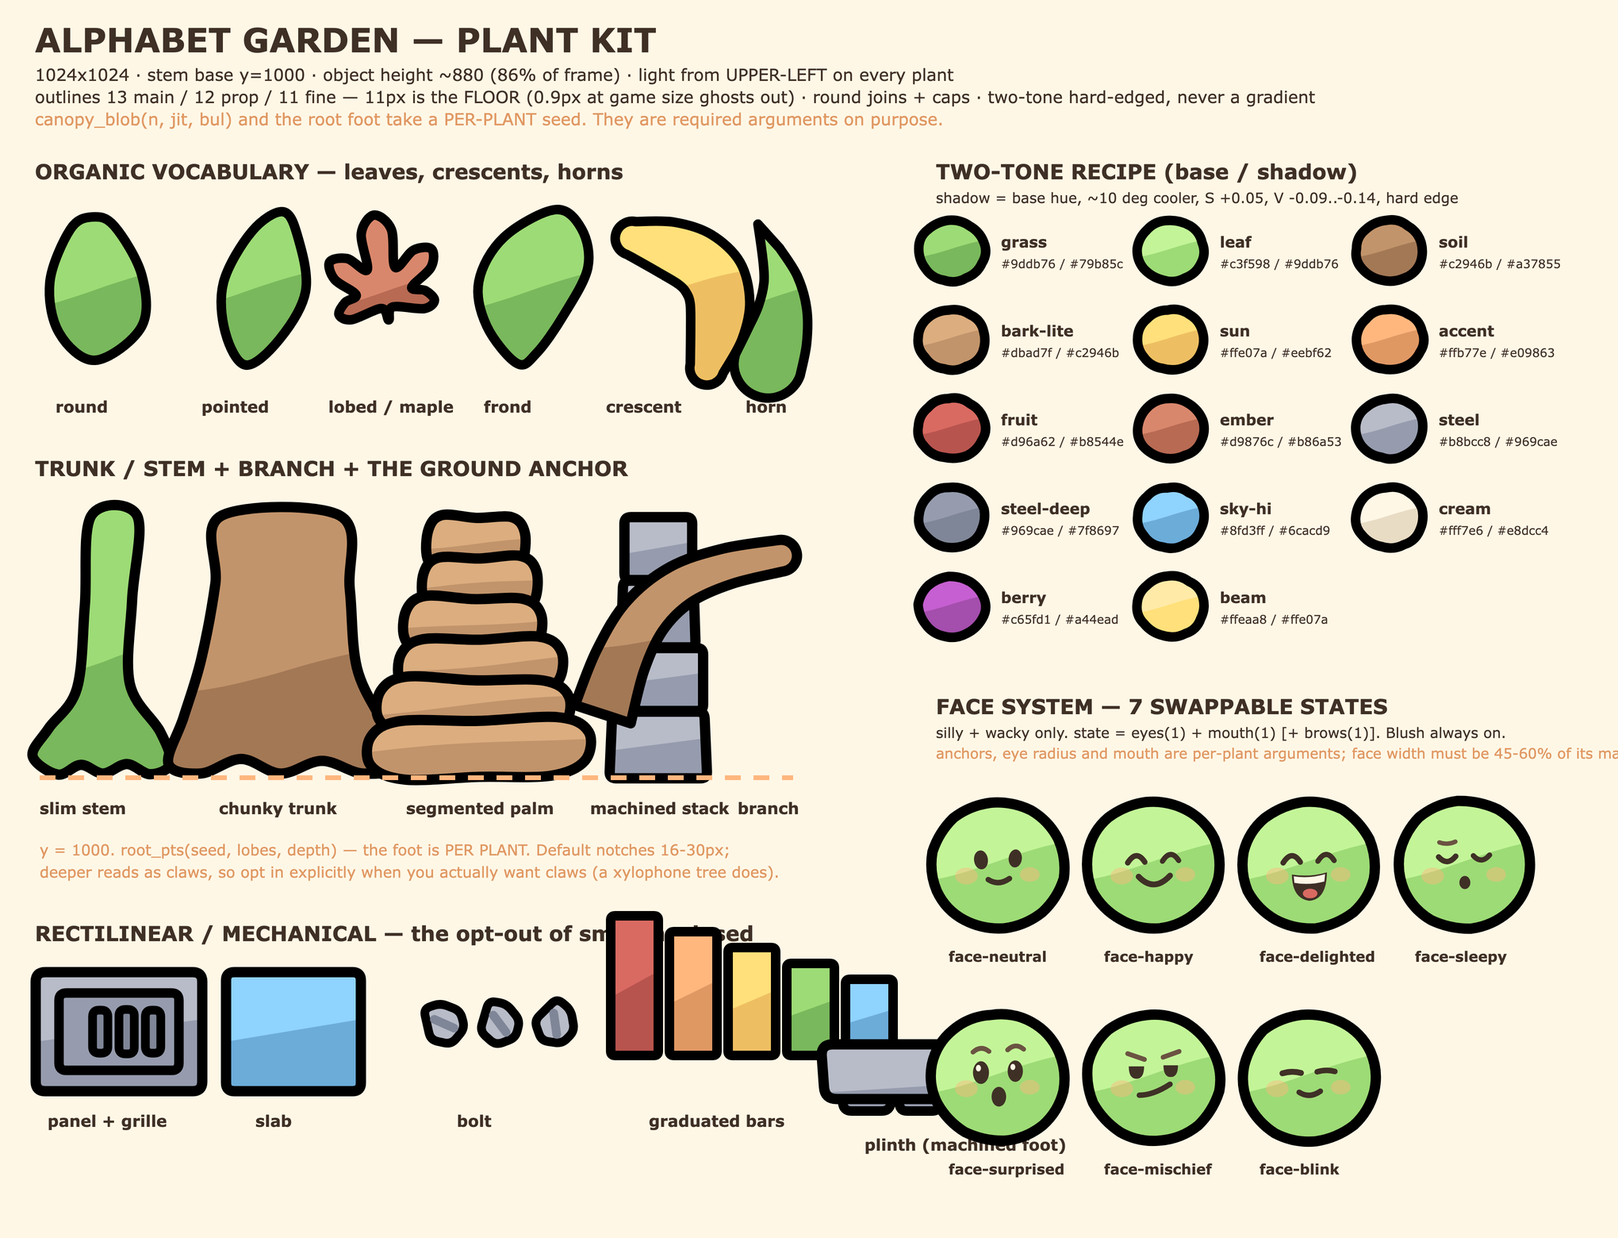
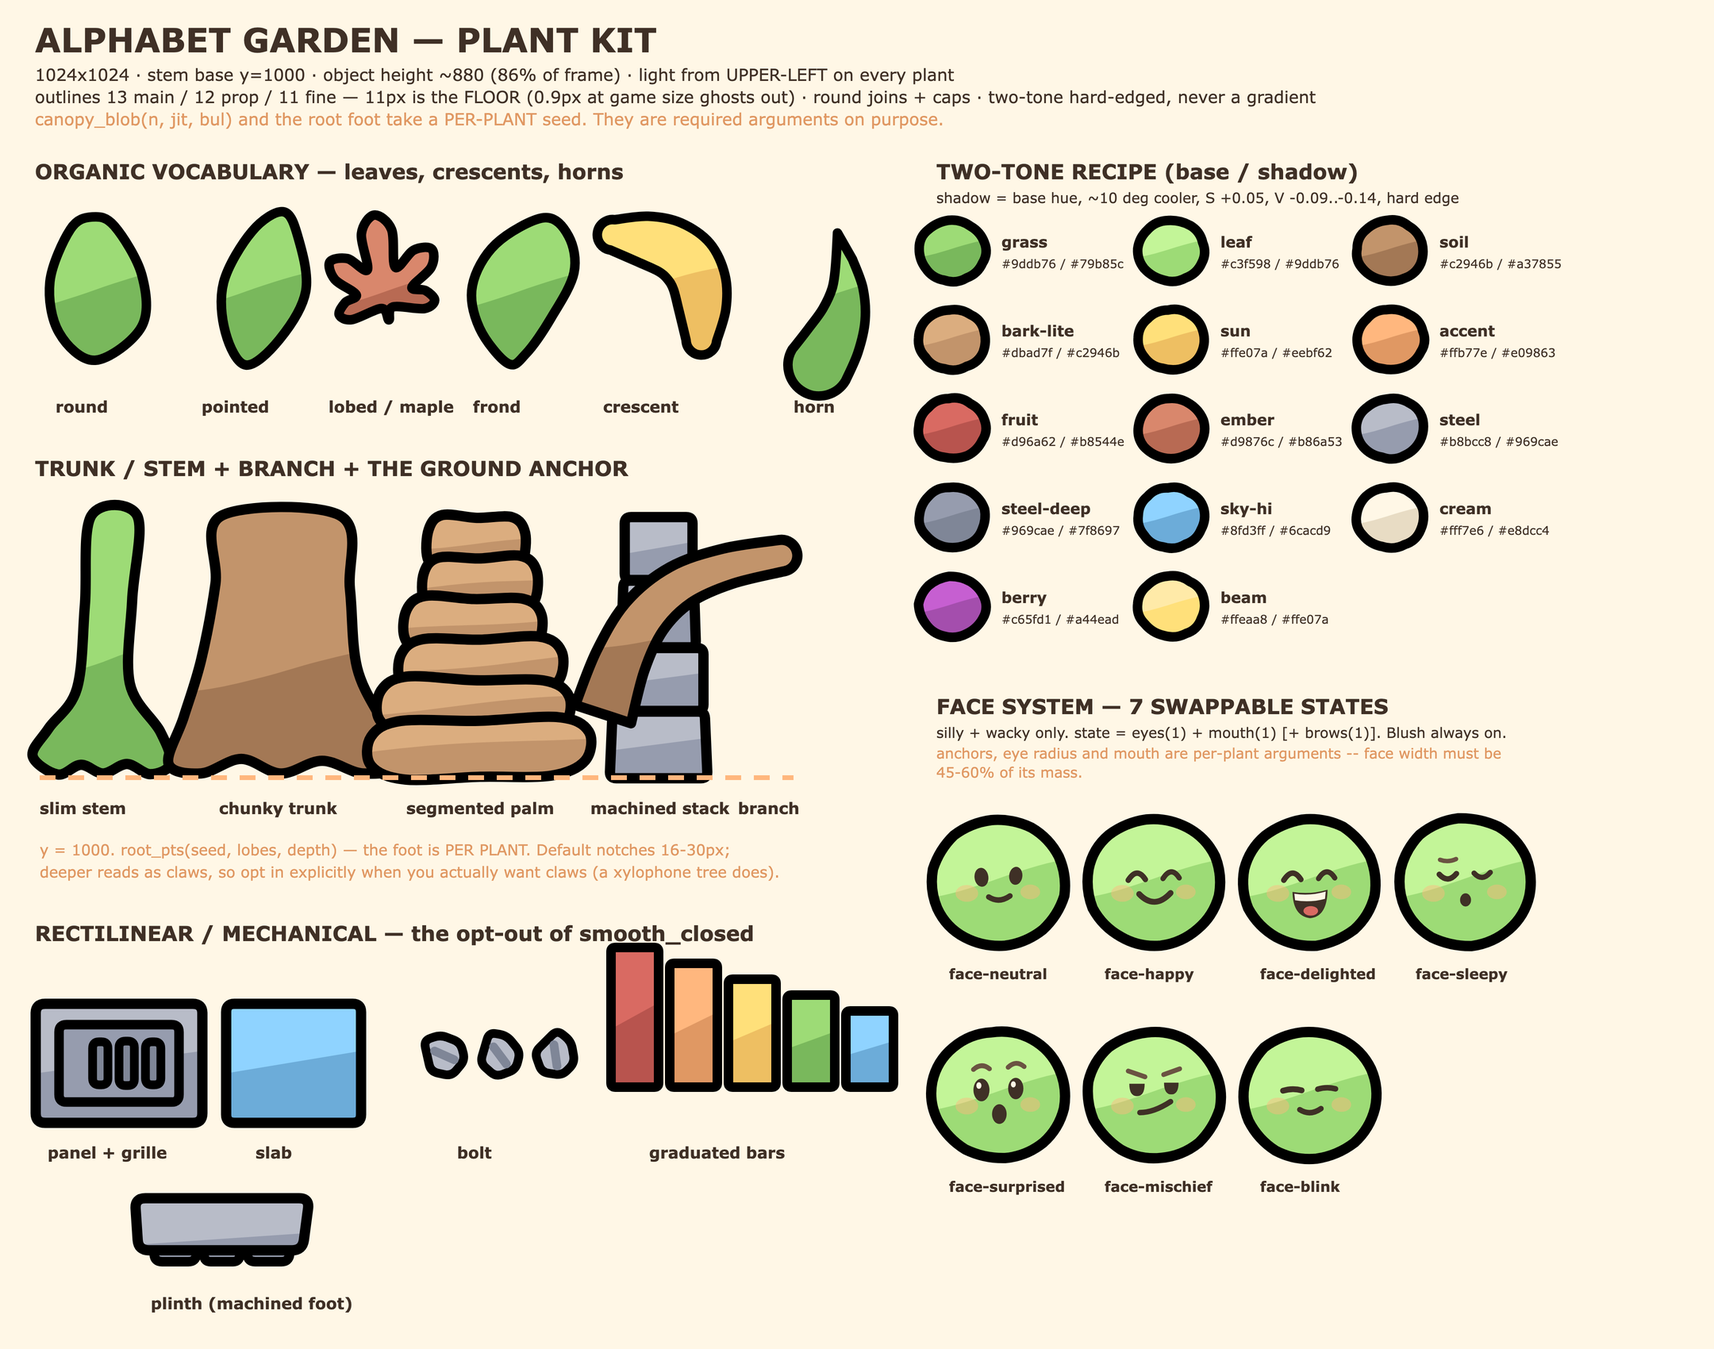
Fix the primer ten agents will read, and make drift impossible
The gate failed on documentation, not art: KIT.md still published the
discredited OL_FINE=7 ladder and documented none of the branch or
rectilinear primitives, so fanning out would have reproduced the already
fixed failures thirteen times over.

Worst of all it was silently wrong -- the docs gave trunk_chunky(..., lean)
while the code's sixth positional was root_seed, so two plants both written
"lean=0" emitted byte-identical feet. root_seed and mass_w are now
keyword-only, which turns that into an immediate TypeError.

Also closes two verifier holes found by adversarial testing: running the
verifier on a single id reported "G1 diversity PASS" after zero comparisons,
and the enrolled-plant list was hardcoded to nine names, so plants 10-78
would never have been checked at all.

Separates bark from ground soil. They had drifted into one family, but the
dirt plot was deliberately pushed hotter to carry the frame's focal weight;
if trunks matched it, every plant would compete with the plot for the eye.
_check_palette.py now reads _kit.py live and fails on any drift: 31/31
tokens match, and no plant art changed.

diff --git a/art/flat/plants/_build_plants.py b/art/flat/plants/_build_plants.py
@@ -153,7 +153,7 @@ def sunflower():
                   'fill="%s" transform="rotate(%d %.1f %.1f)"/>'
                   % (sx, sy, sr, sr * .82, INK_SOFT, (i * 37) % 60 - 30,
                      sx, sy))
-    d.form(disc, SOIL, sweep(HX, HY, 136, 128, lo=.28, hi=-.46), SOIL_DEEP,
+    d.form(disc, BARK, sweep(HX, HY, 136, 128, lo=.28, hi=-.46), BARK_DEEP,
            inner=seeds)
     return d.svg()
 
@@ -167,8 +167,8 @@ def apple_tree():
     d = Doc()
     d.form(trunk_chunky(508, 380, BASE_Y, 178, 334, root_seed=2.6, lean=8,
                         root_lobes=3, root_depth=(18, 30)),
-           SOIL, sweep(524, 760, 168, 250, lo=.18, hi=-.14, wob=.06),
-           SOIL_DEEP,
+           BARK, sweep(524, 760, 168, 250, lo=.18, hi=-.14, wob=.06),
+           BARK_DEEP,
            inner=('<path d="M424,560 C440,660 430,760 448,900" fill="none" '
                   'stroke="%s" stroke-width="%d" %s/>'
                   '<path d="M604,600 C592,700 606,798 596,916" fill="none" '
@@ -215,7 +215,7 @@ def apple_tree():
               'fill="none" stroke="%s" stroke-width="%d" %s/>'
               % (ax + 2, ay - r * .62, ax + 6, ay - r * 1.02,
                  ax + 16, ay - r * 1.16, ax + 26, ay - r * 1.30,
-                 SOIL_DEEP, OL_PROP, RJ))
+                 BARK_DEEP, OL_PROP, RJ))
         d.form(p, FRUIT, sweep(ax, ay, r, r, lo=.30, hi=-.46), FRUIT_DEEP,
                ol=OL_PROP, evenodd=eo,
                inner='<path d="%s" fill="%s" opacity="0.85"/>'
@@ -246,16 +246,16 @@ def maple_tree():
              (562, 792, 872, 588, 78, 40, -0.22)]
     for (x0, y0, x1, y1, w0, w1, k) in LIMBS:
         d.form(branch(x0, y0, x1, y1, w0, w1, k),
-               SOIL, sweep((x0 + x1) / 2, (y0 + y1) / 2, 120, 120,
+               BARK, sweep((x0 + x1) / 2, (y0 + y1) / 2, 120, 120,
                            lo=.24, hi=-.30, seed=x1 * .02),
-               SOIL_DEEP, ol=OL_MAIN)
+               BARK_DEEP, ol=OL_MAIN)
 
     # ---- a SHORT trunk: the tree's mass is in the limbs, not the column --
     # trunk runs UP into the middle plume so it has no visible flat top
     d.form(trunk_chunky(512, 500, BASE_Y, 118, 300, root_seed=27.5, lean=-14,
                         root_lobes=3, root_depth=(20, 34), flare=1.08),
-           SOIL, sweep(516, 850, 150, 170, lo=.14, hi=-.18, wob=.05),
-           SOIL_DEEP,
+           BARK, sweep(516, 850, 150, 170, lo=.14, hi=-.18, wob=.05),
+           BARK_DEEP,
            inner=('<path d="M436,760 C450,830 442,890 456,948" fill="none" '
                   'stroke="%s" stroke-width="%d" %s/>'
                   '<path d="M584,772 C574,844 588,896 578,952" fill="none" '
@@ -291,7 +291,7 @@ def maple_tree():
         py = ly + L * .52 * math.cos(math.radians(dg))
         d.add('<path d="M%.0f,%.0f L%.0f,%.0f" fill="none" stroke="%s" '
               'stroke-width="%d" %s/>'
-              % (lx, ly, px, py, SOIL_DEEP, OL_FINE, RJ))
+              % (lx, ly, px, py, BARK_DEEP, OL_FINE, RJ))
         d.form(leaf_lobed(lx, ly, L, dg,
                           jit=jitter(lx * .01, 5, 0.07, 1.0)), col,
                sweep(lx, ly, L, L, lo=.30, hi=-.44, wob=.10, seed=lx * .02),
@@ -433,7 +433,7 @@ def pizza_palm():
     for i, (pth, hw, cy) in enumerate(rings):
         d.form(pth, BARK_LITE,
                sweep(512, cy, hw, hw * .40, lo=.26, hi=-.40, seed=i * 1.7),
-               SOIL, ol=OL_MAIN)
+               BARK, ol=OL_MAIN)
 
     # ---- five slices ----
     for i, base_a in enumerate(ANG):
@@ -552,8 +552,8 @@ def ufo_tree():
 
     d.form(trunk_chunky(504, 680, BASE_Y, 156, 306, root_seed=38.4, lean=6,
                         root_lobes=3, root_depth=(16, 28)),
-           SOIL, sweep(518, 860, 150, 170, lo=.18, hi=-.14, wob=.06),
-           SOIL_DEEP,
+           BARK, sweep(518, 860, 150, 170, lo=.18, hi=-.14, wob=.06),
+           BARK_DEEP,
            inner=('<path d="M424,740 C440,812 430,872 448,940" fill="none" '
                   'stroke="%s" stroke-width="%d" %s/>'
                   '<path d="M598,762 C588,830 602,882 592,944" fill="none" '
@@ -742,8 +742,8 @@ def xylophone_tree():
     # ---- trunk: wide, splayed, claw-footed ----
     d.form(trunk_chunky(498, 622, BASE_Y, 286, 452, root_seed=64.1, lean=4,
                         root_lobes=4, root_depth=(34, 62), flare=1.14),
-           SOIL, sweep(516, 800, 220, 210, lo=.16, hi=-.20, wob=.05),
-           SOIL_DEEP,
+           BARK, sweep(516, 800, 220, 210, lo=.16, hi=-.20, wob=.05),
+           BARK_DEEP,
            inner=("".join(
                '<path d="%s" fill="none" stroke="%s" stroke-width="%d" %s/>'
                % (sd, INK, OL_MAIN, RJ)
@@ -752,15 +752,15 @@ def xylophone_tree():
 
     # a wobbly cap so the stump has no dead-straight top edge
     JC, BC = lobe_profile(70.5, 9, jit=0.03, bul=(6, 16))
-    d.form(canopy_blob(500, 640, 176, 44, 9, JC, BC, start=-96), SOIL,
-           sweep(500, 640, 176, 44, lo=.20, hi=-.34), SOIL_DEEP)
+    d.form(canopy_blob(500, 640, 176, 44, 9, JC, BC, start=-96), BARK,
+           sweep(500, 640, 176, 44, lo=.20, hi=-.34), BARK_DEEP)
 
     # ---- two side arms holding the mallets ----
     for (x0, y0, x1, y1, w0, w1, k) in ((392, 740, 172, 676, 78, 58, 0.14),
                                         (614, 730, 852, 690, 74, 56, 0.17)):
-        d.form(branch(x0, y0, x1, y1, w0, w1, k), SOIL,
+        d.form(branch(x0, y0, x1, y1, w0, w1, k), BARK,
                sweep((x0 + x1) / 2, (y0 + y1) / 2, 110, 60, lo=.22, hi=-.28),
-               SOIL_DEEP, ol=OL_MAIN)
+               BARK_DEEP, ol=OL_MAIN)
 
     # ---- the trunk's face: 168 wide on a ~336-wide shaft = 50.0% ----
     d.add(face(492, 764, 168, mass_w=336, default="mischief", tilt=2.0,
@@ -770,7 +770,7 @@ def xylophone_tree():
     # ---- rails behind the bars (straight, machined) ----
     for (ry, rw) in ((246, 792), (452, 836)):
         d.form(slab(506, ry, rw, 34, 0.48, deg=1.5), BARK_LITE,
-               sweep_hard(506, ry, rw * .5, 17, lo=.20, hi=-.30), SOIL,
+               sweep_hard(506, ry, rw * .5, 17, lo=.20, hi=-.30), BARK,
                ol=OL_PROP)
 
     # ---- the bars ----
@@ -793,11 +793,11 @@ def xylophone_tree():
     for (hx, hy, tx, ty, hr, k) in ((128, 372, 190, 664, 62, 0.13),
                                     (912, 366, 838, 678, 58, -0.15)):
         d.form(branch(hx, hy, tx, ty, 34, 30, k), BARK_LITE,
-               sweep_hard((hx + tx) / 2, (hy + ty) / 2, 70, 120), SOIL,
+               sweep_hard((hx + tx) / 2, (hy + ty) / 2, 70, 120), BARK,
                ol=OL_PROP)
         J, B = lobe_profile(hx * .01, 9, jit=0.03, bul=(4, 8))
         d.form(canopy_blob(hx, hy, hr, hr * .84, 9, J, B), BARK_LITE,
-               sweep(hx, hy, hr, hr, lo=.28, hi=-.44), SOIL, ol=OL_PROP)
+               sweep(hx, hy, hr, hr, lo=.28, hi=-.44), BARK, ol=OL_PROP)
     return d.svg()
 
 
@@ -887,9 +887,13 @@ def banana_tree():
 # =====================================================================
 # KIT REFERENCE SHEET
 # =====================================================================
+KIT_SHEET_W, KIT_SHEET_H = 2160, 1700
+
+
 def kit_sheet():
-    d = Doc(2040, 1560)
-    d.add('<rect x="0" y="0" width="2040" height="1560" fill="%s"/>' % CREAM)
+    d = Doc(KIT_SHEET_W, KIT_SHEET_H)
+    d.add('<rect x="0" y="0" width="%d" height="%d" fill="%s"/>'
+          % (KIT_SHEET_W, KIT_SHEET_H, CREAM))
     F = "Verdana,DejaVu Sans,sans-serif"
 
     def T(x, y, sz, txt, col=INK_SOFT, w="bold"):
@@ -910,17 +914,21 @@ def kit_sheet():
       ACCENT_DEEP, "normal")
 
     # ---------------- leaves ----------------
+    # REVISED (fan-out gate fix): crescent and horn used to sit only 172px
+    # apart centre-to-centre and their silhouettes visibly touched. They now
+    # get their own wider slots (each pushed further from its neighbour)
+    # with more headroom besides.
     T(44, 226, 26, "ORGANIC VOCABULARY &#8212; leaves, crescents, horns")
     lv = [("round", leaf_round(120, 454, 180, 116, -6), GRASS, 120, 372),
           ("pointed", leaf_pointed(310, 460, 196, 104, 4), GRASS, 310, 374),
           ("lobed / maple", leaf_lobed(486, 374, 98, -8), EMBER, 486, 374),
-          ("frond", leaf_frond(652, 458, 190, 116, -4), GRASS, 666, 374),
-          ("crescent", crescent(796, 300, 190, 78, 150, -0.34), SUN,
-           838, 376),
-          ("horn", horn(968, 460, 178, 86, -4, 0.14), GRASS, 962, 386)]
+          ("frond", leaf_frond(640, 458, 180, 108, -4), GRASS, 654, 374),
+          ("crescent", crescent(772, 296, 174, 70, 140, -0.30), SUN,
+           806, 372),
+          ("horn", horn(1032, 460, 168, 78, 8, 0.14), GRASS, 1032, 384)]
     for nm, pth, col, sx, sy in lv:
         d.form(pth, col, sweep(sx, sy, 96, 96, lo=.30, hi=-.44), ol=OL_PROP)
-    for i, x in enumerate((70, 254, 414, 610, 764, 940)):
+    for i, x in enumerate((70, 254, 414, 596, 760, 1000)):
         T(x, 520, 20, lv[i][0])
 
     # ---------------- trunks + branch ----------------
@@ -928,19 +936,19 @@ def kit_sheet():
     d.form(stem_slim(130, 650, 980, 58, root_seed=1.0, lean=14, w_base=160),
            GRASS, sweep(140, 834, 84, 180, lo=.06, hi=-.10), GRASS_DEEP)
     T(50, 1026, 20, "slim stem")
-    d.form(trunk_chunky(354, 650, 980, 150, 292, root_seed=2.0), SOIL,
-           sweep(366, 840, 140, 180, lo=.18, hi=-.14), SOIL_DEEP)
+    d.form(trunk_chunky(354, 650, 980, 150, 292, root_seed=2.0), BARK,
+           sweep(366, 840, 140, 180, lo=.18, hi=-.14), BARK_DEEP)
     T(276, 1026, 20, "chunky trunk")
     for i, (pth, hw, cy) in enumerate(trunk_palm(600, 650, 980, 62, 140, n=6)):
         d.form(pth, BARK_LITE, sweep(600, cy, hw, hw * .4, lo=.26, hi=-.40,
-                                     seed=i * 1.7), SOIL)
+                                     seed=i * 1.7), BARK)
     T(512, 1026, 20, "segmented palm")
     for i, (sd, w, cy, h) in enumerate(trunk_stack(830, 650, 980, 86, 122,
                                                    4, seed=3.0)):
         d.form(sd, STEEL, sweep_hard(830, cy, w * .5, h * .5), STEEL_DEEP)
     T(744, 1026, 20, "machined stack")
-    d.form(branch(760, 900, 986, 700, 74, 40, -0.20), SOIL,
-           sweep(870, 800, 110, 90, lo=.22, hi=-.30), SOIL_DEEP)
+    d.form(branch(760, 900, 986, 700, 74, 40, -0.20), BARK,
+           sweep(870, 800, 110, 90, lo=.22, hi=-.30), BARK_DEEP)
     T(930, 1026, 20, "branch")
     d.add('<path d="M50,980 L1000,980" stroke="%s" stroke-width="6" '
           'stroke-dasharray="20 16" fill="none"/>' % ACCENT)
@@ -952,39 +960,49 @@ def kit_sheet():
       ACCENT_DEEP, "normal")
 
     # ---------------- rectilinear ----------------
+    # REVISED (fan-out gate fix): the tallest graduated bar used to reach
+    # y=1154, well above the title's baseline at y=1186 -- the artwork
+    # visibly struck through "smooth_closed". panel/slab/bolt/bars are now
+    # shifted down 40px so even the tallest bar clears the title with room
+    # to spare. The plinth used to sit at the right end of this same row
+    # (cx=1160, 250px wide) -- wide and far-right enough that it overlapped
+    # BOTH the "graduated bars" label beside it and face-surprised on the
+    # right-hand column below it. It now gets its own row underneath,
+    # left-aligned under "panel + grille" -- a different Y band from
+    # everything else on this sheet, so it cannot collide with either.
     T(44, 1186, 26, "RECTILINEAR / MECHANICAL &#8212; the opt-out of "
                     "smooth_closed")
-    out, inn = panel(150, 1300, 210, 150, r=0.08, inset=0.28)
-    d.form(out, STEEL, sweep_hard(150, 1300, 105, 75), STEEL_DEEP)
+    out, inn = panel(150, 1340, 210, 150, r=0.08, inset=0.28)
+    d.form(out, STEEL, sweep_hard(150, 1340, 105, 75), STEEL_DEEP)
     d.form(inn, STEEL_DEEP, None, None, ol=OL_PROP)
-    for sd in grille(150, 1300, 100, 56, 4):
+    for sd in grille(150, 1340, 100, 56, 4):
         d.form(sd, STEEL_DARK, None, None, ol=OL_FINE)
-    T(60, 1420, 20, "panel + grille")
-    d.form(slab(370, 1300, 170, 150, 0.07), SKY_HI,
-           sweep_hard(370, 1300, 85, 75), SKY_DEEP)
-    T(322, 1420, 20, "slab")
+    T(60, 1460, 20, "panel + grille")
+    d.form(slab(370, 1340, 170, 150, 0.07), SKY_HI,
+           sweep_hard(370, 1340, 85, 75), SKY_DEEP)
+    T(322, 1460, 20, "slab")
     for i, bx in enumerate((560, 630, 700)):
-        hd, sl = bolt(bx, 1290, 26, deg=i * 29)
+        hd, sl = bolt(bx, 1330, 26, deg=i * 29)
         d.form(hd, STEEL, None, None, ol=OL_FINE)
         d.line(sl, OL_FINE, STEEL_DARK)
-    T(576, 1420, 20, "bolt")
+    T(576, 1460, 20, "bolt")
     for i, hh in enumerate(graduated(5, 176, 96)):
-        d.form(slab(800 + i * 74, 1330 - hh * .5, 60, hh, 0.09), BAR5[i],
-               sweep_hard(800 + i * 74, 1330 - hh * .5, 30, hh * .5),
+        d.form(slab(800 + i * 74, 1370 - hh * .5, 60, hh, 0.09), BAR5[i],
+               sweep_hard(800 + i * 74, 1370 - hh * .5, 30, hh * .5),
                SHADE[BAR5[i]], ol=OL_PROP)
-    T(818, 1420, 20, "graduated bars")
-    plate, pads = plinth(1160, 1400, 250, 84, feet=3)
+    T(818, 1460, 20, "graduated bars")
+    plate, pads = plinth(280, 1590, 220, 80, feet=3)
     for p in pads:
         d.form(p, STEEL_DEEP, None, None, ol=OL_PROP)
-    d.form(plate, STEEL, sweep_hard(1160, 1370, 125, 42), STEEL_DEEP)
-    T(1090, 1450, 20, "plinth (machined foot)")
+    d.form(plate, STEEL, sweep_hard(280, 1562, 110, 40), STEEL_DEEP)
+    T(190, 1650, 20, "plinth (machined foot)")
 
     # ---------------- two-tone ----------------
     T(1180, 226, 26, "TWO-TONE RECIPE  (base / shadow)")
     T(1180, 256, 18, "shadow = base hue, ~10 deg cooler, S +0.05, "
                      "V -0.09..-0.14, hard edge", INK_SOFT, "normal")
     pairs = [("grass", GRASS, GRASS_DEEP), ("leaf", LEAF, GRASS),
-             ("soil", SOIL, SOIL_DEEP), ("bark-lite", BARK_LITE, SOIL),
+             ("soil", BARK, BARK_DEEP), ("bark-lite", BARK_LITE, BARK),
              ("sun", SUN, SUN_SHADE), ("accent", ACCENT, ACCENT_DEEP),
              ("fruit", FRUIT, FRUIT_DEEP), ("ember", EMBER, EMBER_DEEP),
              ("steel", STEEL, STEEL_DEEP), ("steel-deep", STEEL_DEEP,
@@ -1003,15 +1021,20 @@ def kit_sheet():
     # ---------------- faces ----------------
     # 7 states in a 4+3 grid, each label directly UNDER its own head with
     # 96px of clear air before the next row (v1 buried row 1's labels).
+    # REVISED (fan-out gate fix): the "45-60% of its mass" caption used to
+    # be one line that ran off the right edge of the (then 2040px-wide)
+    # canvas -- it was clipped mid-word at "45-60% of its ma". It is now
+    # wrapped onto two lines, AND the canvas is wider besides, so it has
+    # margin to spare rather than exactly reaching the edge.
     T(1180, 900, 26, "FACE SYSTEM &#8212; 7 SWAPPABLE STATES")
     T(1180, 930, 18, "silly + wacky only. state = eyes(1) + mouth(1) "
                      "[+ brows(1)]. Blush always on.", INK_SOFT, "normal")
     T(1180, 956, 18, "anchors, eye radius and mouth are per-plant "
-                     "arguments; face width must be 45-60% of its mass.",
-      ACCENT_DEEP, "normal")
+                     "arguments -- face width must be", ACCENT_DEEP, "normal")
+    T(1180, 980, 18, "45-60% of its mass.", ACCENT_DEEP, "normal")
     for i, ex in enumerate(EXPRESSIONS):
         px = 1258 + (i % 4) * 196
-        py = 1090 + (i // 4) * 268
+        py = 1112 + (i // 4) * 268
         J, B = lobe_profile(i * 5.3 + 2.0, 10, jit=0.015, bul=(6, 9))
         d.form(canopy_blob(px, py, 84, 80, 10, J, B), LEAF,
                sweep(px, py, 84, 80, lo=.34, hi=-.46), GRASS)
@@ -1043,7 +1066,8 @@ if __name__ == "__main__":
         svg = kit_sheet()
         with open(os.path.join(OUT, "_kit.svg"), "w") as fh:
             fh.write(svg.strip() + "\n")
-        ok = render("_kit", svg, 2040, 1560, os.path.join(OUT, "_kit.png"))
+        ok = render("_kit", svg, KIT_SHEET_W, KIT_SHEET_H,
+                    os.path.join(OUT, "_kit.png"))
         print("%-18s %s" % ("_kit", "OK" if ok else "FAIL"))
     for name, fn in jobs:
         svg = fn()

diff --git a/art/flat/plants/_kit.py b/art/flat/plants/_kit.py
@@ -45,8 +45,8 @@ GRASS_DEEP  = "#79b85c"   # grass-deep       (was #5da23c)
 GRASS_DARK  = "#6c9959"   # grass-dark       (was #4a8531; derived back-layer green)
 SKY_HI      = "#8fd3ff"   # sky-hi           (unchanged -- already in band)
 SKY_LO      = "#cdefff"   # sky-lo           (unchanged -- already in band)
-SOIL        = "#c2946b"   # soil             (was #a9713f)
-SOIL_DEEP   = "#a37855"   # soil-deep        (was #8a5a33)
+BARK        = "#c2946b"   # bark            plant trunk base (ground soil is a SEPARATE, hotter family)
+BARK_DEEP   = "#a37855"   # bark-deep       trunk shadow face
 CREAM       = "#fff7e6"   # cream            (unchanged)
 SUN         = "#ffe07a"   # sun              (was #ffd23f)
 SUN_DEEP    = "#f0c665"   # sun-deep         (was #f0b429)
@@ -72,7 +72,7 @@ STEEL       = "#b8bcc8"   # steel        tinted metal (saucers, panels, wings)
 STEEL_DEEP  = "#969cae"   # steel-deep   shadow for STEEL      dV 0.102
 STEEL_DARK  = "#7f8697"   # steel-dark   bolts, grille slots, deep metal dV 0.098
 SKY_DEEP    = "#6cacd9"   # sky-deep     shadow for SKY_HI     dV 0.150
-BARK_LITE   = "#dbad7f"   # bark-lite / soil-lite  lit bark face (shadow: SOIL)
+BARK_LITE   = "#dbad7f"   # bark-lite       lit bark face (shadow: BARK)
 CREAM_DEEP  = "#e8dcc4"   # cream-deep   shadow for CREAM      dV 0.090
 BEAM        = "#ffeaa8"   # beam         light/glow shapes, flat
 BERRY_DEEP  = "#a44ead"   # berry-deep   shadow for BERRY      dV 0.140
@@ -80,7 +80,7 @@ BERRY_DEEP  = "#a44ead"   # berry-deep   shadow for BERRY      dV 0.140
 # base -> shadow pairing table.  ALWAYS take a shadow from here.
 SHADE = {
     GRASS: GRASS_DEEP, GRASS_DEEP: GRASS_DARK, LEAF: GRASS,
-    SOIL: SOIL_DEEP, BARK_LITE: SOIL,
+    BARK: BARK_DEEP, BARK_LITE: BARK,
     SUN: SUN_SHADE, SUN_DEEP: RAY_SHADE,
     ACCENT: ACCENT_DEEP, FRUIT: FRUIT_DEEP, EMBER: EMBER_DEEP,
     STEEL: STEEL_DEEP, STEEL_DEEP: STEEL_DARK,
@@ -881,7 +881,7 @@ def _mouth_marks(kind, G):
 
 
 def _brow_marks(kind, G):
-    """Brows are hue-matched brown (BROW, never SOIL_DEEP or the eye hex)."""
+    """Brows are hue-matched brown (BROW, never BARK_DEEP or the eye hex)."""
     (lx, ly), (rx, ry) = G["eyes"]
     lift = G["brow_lift"]
     if kind == "surprised":
@@ -934,7 +934,7 @@ def face(cx, cy, width_px, *, mass_w, default="happy", tilt=0.0,
     slide off the silhouette; now a positional 4th argument raises TypeError
     instead of being silently accepted as `mass_w`.
 
-    Parameterise `eyes` / `eye_r` / `mouth` per plant.  Same six states on
+    Parameterise `eyes` / `eye_r` / `mouth` per plant.  Same seven states on
     thirty plants is Instant Tell #19; the rig will not stop you, but the
     critic will.
     """

diff --git a/docs/FLAT_ART_BRIEF.md b/docs/FLAT_ART_BRIEF.md
@@ -127,6 +127,20 @@ on-palette, and still would have failed review. Every new asset must fix all fou
 | `cream` | `#fff7e6` | panels, near-white (never pure `#FFFFFF`) |
 | `cloud-shade` | `#c6d8e6` | cloud shadow — hue-rotated cool to 206° |
 
+### Layer 1b — BARK (plant trunks) — a different material from ground soil
+
+> Ground soil and plant bark are **not the same family** and must not share hexes. The dirt plot was
+> deliberately pushed to S .568 so it carries the frame's focal weight and a child can see where to
+> tap; if trunks matched it, every plant would compete with the plot and that hierarchy would collapse.
+> Bark therefore stays cooler and less saturated. These are `_kit.py`'s live values — the executable
+> source of truth for plant art.
+
+| token | hex | use |
+|---|---|---|
+| `bark` | `#c2946b` | trunk / stem base |
+| `bark-deep` | `#a37855` | trunk shadow face |
+| `bark-lite` | `#dbad7f` | lit bark face |
+
 ### Layer 2 — far background (NO black outline; must sit back)
 
 Never share a hex with Layer 1. Target **S ≤ 0.24, V 0.87–0.93**.
